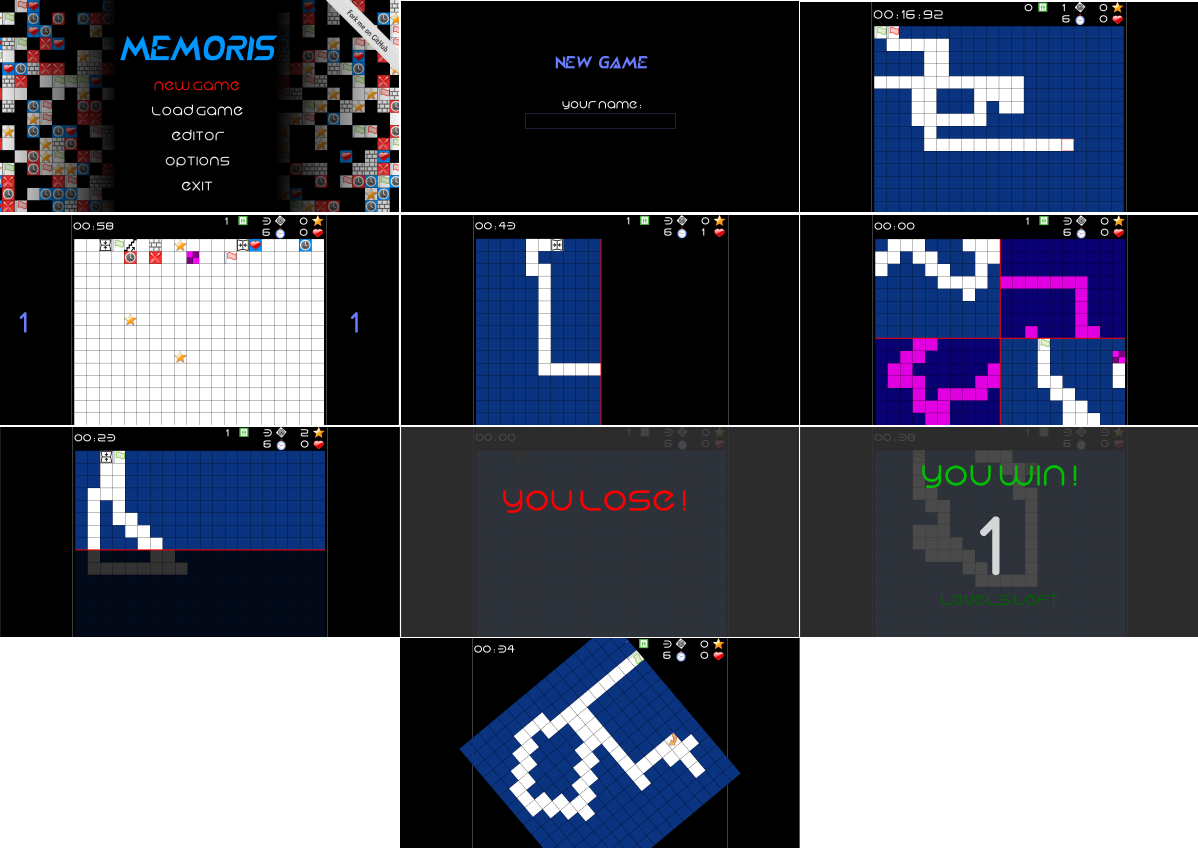
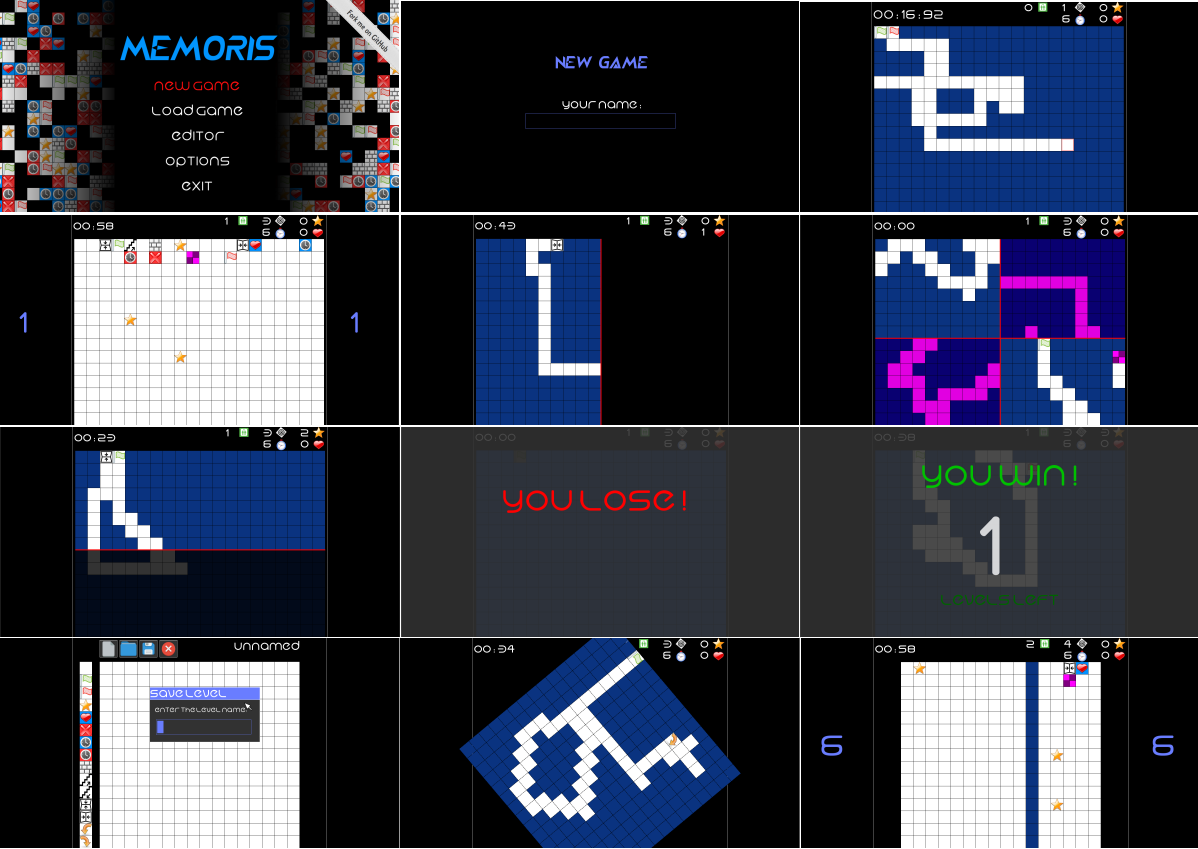
close integrate content in save dialog

Changed region(s): [[0.6486, 0.735, 1.0, 1.0], [0.0, 0.735, 0.3397, 1.0]]

diff --git a/src/SaveLevelDialog.cpp b/src/SaveLevelDialog.cpp
@@ -24,6 +24,8 @@
  
 #include "SaveLevelDialog.hpp"
 
+#include "fonts.hpp"
+
 namespace memoris
 {
 namespace popups
@@ -46,10 +48,26 @@ SaveLevelDialog::SaveLevelDialog(
         hPosition,
         vPosition,
         title
+    ),
+    input(
+        context,
+        hPosition + 25.f,
+        vPosition + 130.f,
+        380.f,
+        20
     )
 {
-    /* does nothing for now, just pass the parameters to the parent
-       constructor */
+    /* information text creation */
+    info.setString("Enter the level name:");
+    info.setPosition(
+        hPosition + 20.f,
+        vPosition + 70.f
+    );
+    info.setFont(
+        context->getFontsManager().getTextFont()
+    );
+    info.setCharacterSize(fonts::INFORMATION_SIZE);
+    info.setColor(context->getColorsManager().getColorWhite());
 }
 
 /**
@@ -59,6 +77,12 @@ void SaveLevelDialog::render(const std::shared_ptr<utils::Context>& context)
 {
     /* display the basic content of the dialog */
     displayParentContent(context);
+
+    /* display the input */
+    input.display(context);
+
+    /* display the information */
+    context->getSfmlWindow().draw(info);
 }
 
 }

diff --git a/includes/ColorsManager.hpp b/includes/ColorsManager.hpp
@@ -158,9 +158,9 @@ private:
     static constexpr sf::Uint8 COLOR_LIGHT_BLUE_GREEN = 125;
     static constexpr sf::Uint8 COLOR_LIGHT_BLUE_BLUE = 255;
 
-    static constexpr sf::Uint8 COLOR_DARK_GREY_RED = 134;
-    static constexpr sf::Uint8 COLOR_DARK_GREY_GREEN = 134;
-    static constexpr sf::Uint8 COLOR_DARK_GREY_BLUE = 134;
+    static constexpr sf::Uint8 COLOR_DARK_GREY_RED = 50;
+    static constexpr sf::Uint8 COLOR_DARK_GREY_GREEN = 50;
+    static constexpr sf::Uint8 COLOR_DARK_GREY_BLUE = 50;
 
     static constexpr sf::Uint8 COLOR_BLACK_RED = 0;
     static constexpr sf::Uint8 COLOR_BLACK_GREEN = 0;

diff --git a/src/LevelEditorController.cpp b/src/LevelEditorController.cpp
@@ -133,6 +133,8 @@ unsigned short LevelEditorController::render(
                 /* if the exit button is selected, just go back to the
                    editor main menu */
                 expectedControllerId = EDITOR_MENU_CONTROLLER_ID;
+
+                break;
             }
             case utils::EditorDashboard::SAVE_ACTION_ID:
             {
@@ -141,6 +143,8 @@ unsigned short LevelEditorController::render(
                     context,
                     popups::SAVE_LEVEL_POPUP_ID
                 );
+
+                break;
             }
             }
         }

diff --git a/includes/SaveLevelDialog.hpp b/includes/SaveLevelDialog.hpp
@@ -29,6 +29,8 @@
 
 #include "Dialog.hpp"
 
+#include "InputTextWidget.hpp"
+
 namespace memoris
 {
 namespace popups
@@ -58,6 +60,14 @@ public:
      * @param context shared pointer to the current context to use
      */
     void render(const std::shared_ptr<utils::Context>& context) override;
+
+private:
+
+    /* the input text widget to let the player enters the name of the level */
+    widgets::InputTextWidget input;
+
+    /* displayed information */
+    sf::Text info;
 };
 
 }

diff --git a/src/dialogs.cpp b/src/dialogs.cpp
@@ -45,10 +45,10 @@ std::unique_ptr<popups::Dialog> getDialogById(
     {
         return std::make_unique<SaveLevelDialog>(
             context,
-            400.f,
-            300.f,
-            40.f,
-            40.f,
+            440.f,
+            220.f,
+            600.f,
+            200.f,
             "Save level"
         );
     }
